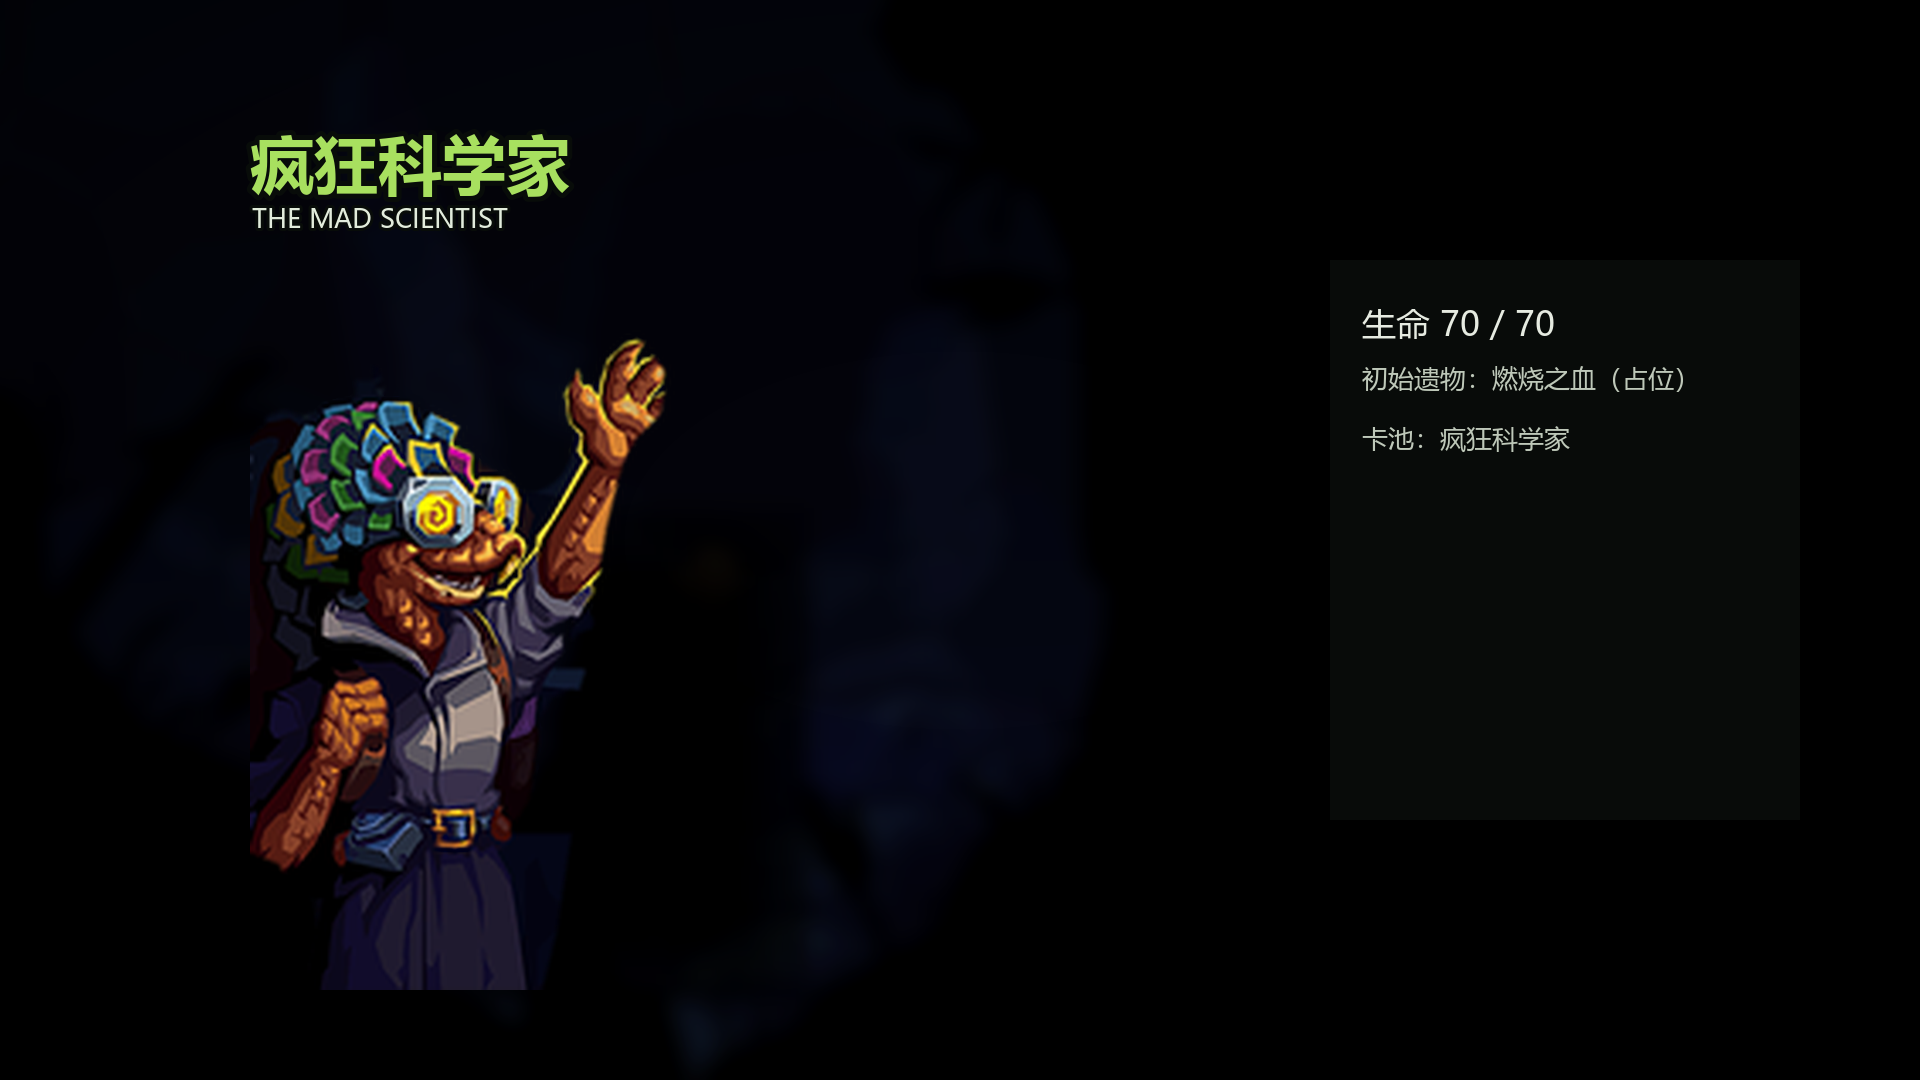
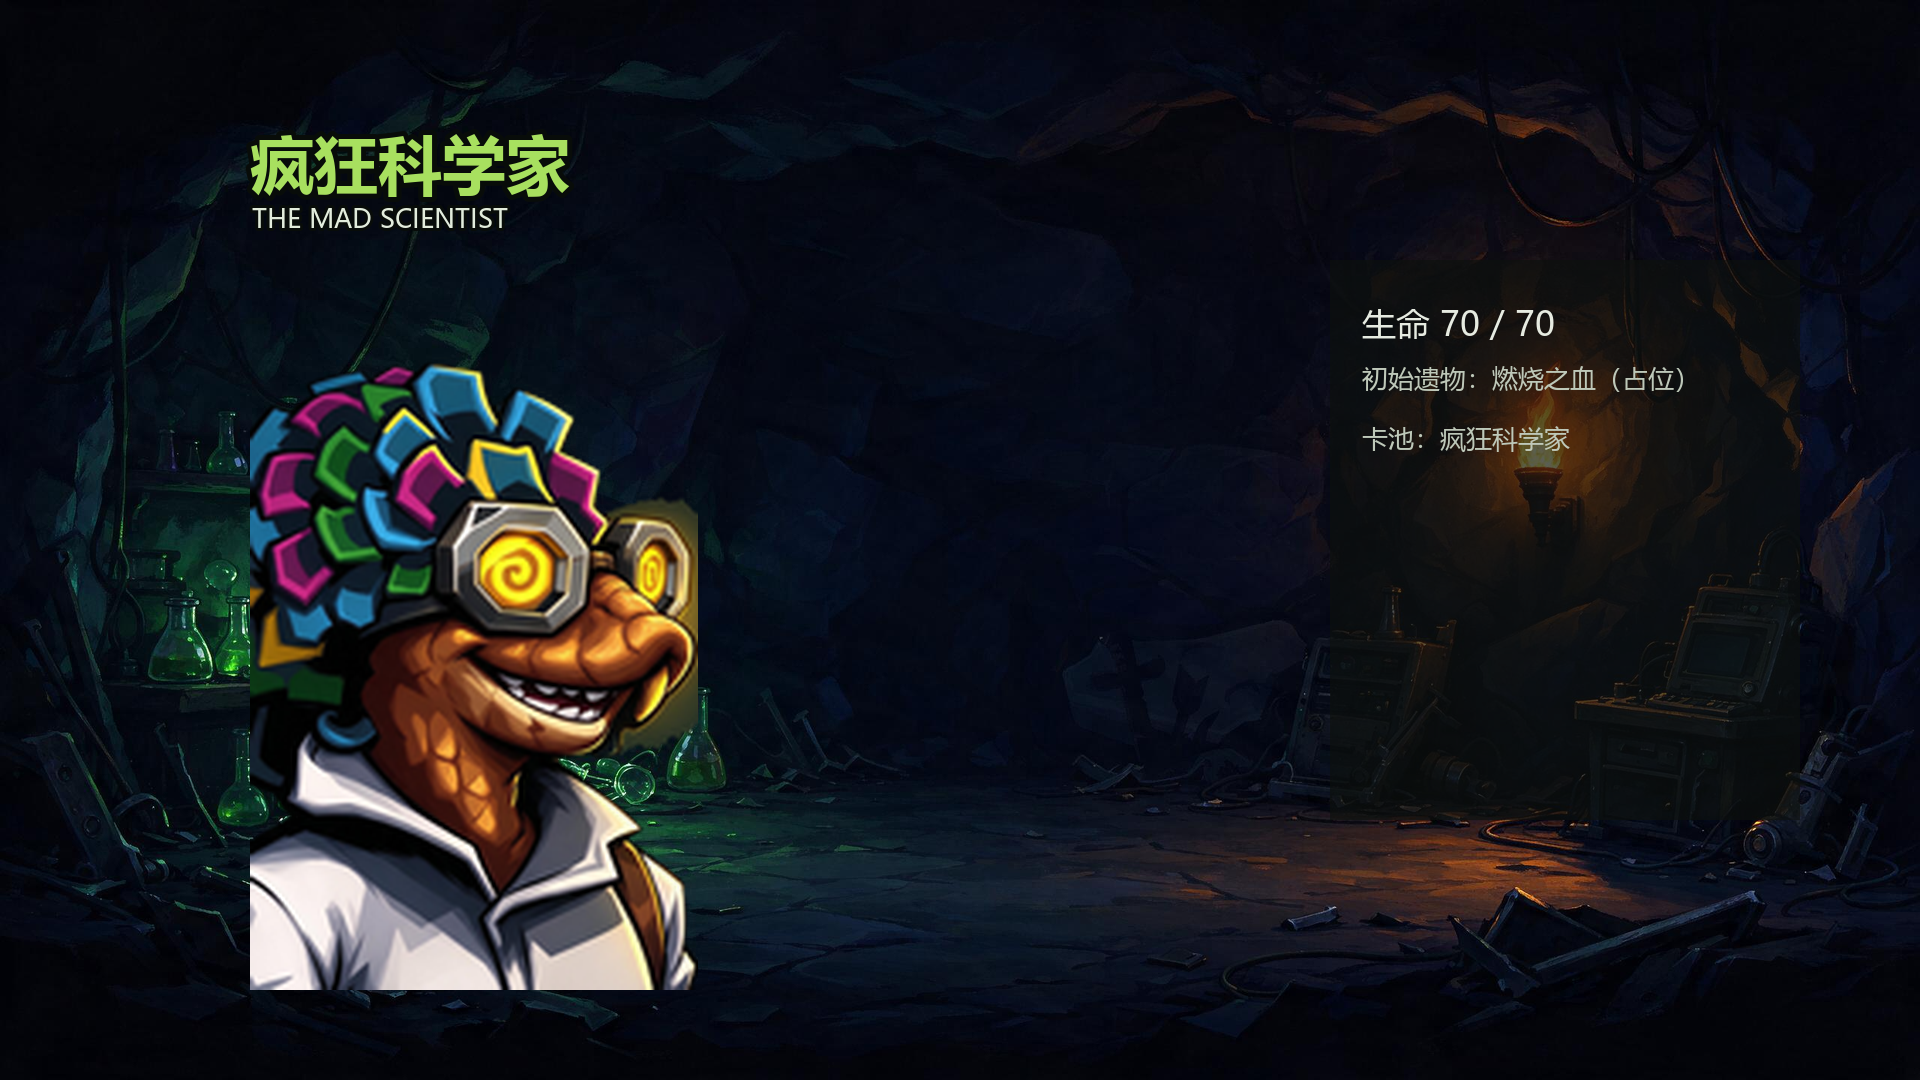
art: switch to AI redrawn assets (Seedream 5.0 flash), fix select background sizing

diff --git a/art/build_ai_assets.py b/art/build_ai_assets.py
@@ -1,0 +1,196 @@
+"""Turn the AI generated art (art/incoming) into the mod's image files.
+
+Inputs
+  art/incoming/base/base_v2.png        full body, flat white background
+  art/incoming/assets/portrait.png     bust
+  art/incoming/assets/icon.png         head
+  art/incoming/assets/select_bg.png    cave laboratory background
+  art/incoming/assets/design.png       character design sheet (docs only)
+
+Outputs (MadScientist/images/...)
+  character/combat.png                 700 px tall, feet on the bottom edge
+  charui/char_select_mad_scientist.png 132x195 (+ _locked silhouette)
+  charui/character_icon_*.png          88x88 (+ white outline version)
+  charui/map_marker_mad_scientist.png  49x64
+  events/select_bg.png                 1920x1080
+
+Run: python art/build_ai_assets.py
+"""
+from __future__ import annotations
+
+from pathlib import Path
+
+import numpy as np
+from PIL import Image, ImageDraw, ImageFilter
+
+ROOT = Path(__file__).resolve().parent.parent
+INCOMING = ROOT / "art" / "incoming"
+OUT = ROOT / "MadScientist" / "images"
+DOCS = ROOT / "docs"
+
+
+# --------------------------------------------------------------------------- #
+# white background removal
+# --------------------------------------------------------------------------- #
+def cut_white(im: Image.Image, thresh: int = 22, shadow: bool = True, corners=None) -> Image.Image:
+    """Remove a flat white background, keeping the character's white coat.
+
+    Uses a flood fill from the four corners so enclosed white areas (the lab
+    coat) are not touched.  The soft grey ground shadow is removed separately by
+    dropping low-saturation pixels in the bottom part of the image.
+    """
+    rgb = im.convert("RGB")
+    w, h = rgb.size
+    sentinel = (255, 0, 255)
+    probe = rgb.copy()
+    seeds = corners or ((0, 0), (w - 1, 0), (0, h - 1), (w - 1, h - 1))
+    for corner in seeds:
+        if probe.getpixel(corner) != sentinel:
+            ImageDraw.floodfill(probe, corner, sentinel, thresh=thresh)
+
+    arr = np.asarray(probe)
+    bg = (arr[:, :, 0] == 255) & (arr[:, :, 1] == 0) & (arr[:, :, 2] == 255)
+    alpha = (~bg).astype(np.float32)
+
+    if shadow:
+        a = np.asarray(rgb).astype(np.float32) / 255.0
+        mx = a.max(2)
+        mn = a.min(2)
+        sat = np.where(mx > 0, (mx - mn) / np.maximum(mx, 1e-6), 0)
+        yy = np.arange(h)[:, None]
+        bottom = yy > h * 0.72
+        shadow_mask = bottom & (sat < 0.13) & (mx > 0.55)
+        alpha[shadow_mask] = 0.0
+
+    alpha_img = Image.fromarray((alpha * 255).astype(np.uint8)).filter(ImageFilter.GaussianBlur(0.6))
+    out = rgb.convert("RGBA")
+    out.putalpha(alpha_img)
+    return out
+
+
+def cut_dark(im: Image.Image, thresh: int = 45) -> Image.Image:
+    """Key out a flat dark background (used for the portrait with the teal backdrop)."""
+    rgb = im.convert("RGB")
+    w, h = rgb.size
+    sentinel = (255, 0, 255)
+    probe = rgb.copy()
+    for corner in ((0, 0), (w - 1, 0), (0, h - 1), (w - 1, h - 1)):
+        ImageDraw.floodfill(probe, corner, sentinel, thresh=thresh)
+    arr = np.asarray(probe)
+    bg = (arr[:, :, 0] == 255) & (arr[:, :, 1] == 0) & (arr[:, :, 2] == 255)
+    alpha = Image.fromarray(((~bg) * 255).astype(np.uint8)).filter(ImageFilter.GaussianBlur(0.8))
+    out = rgb.convert("RGBA")
+    out.putalpha(alpha)
+
+    # eat the dark glow fringe that the flood fill leaves around the head
+    arr = np.asarray(out).astype(np.int16).copy()
+    corners = [np.asarray(rgb.getpixel((0, 0))), np.asarray(rgb.getpixel((w - 1, 0))),
+               np.asarray(rgb.getpixel((0, h - 1))), np.asarray(rgb.getpixel((w - 1, h - 1)))]
+    bgc = np.median(np.stack(corners), axis=0)
+    dist = np.sqrt(((arr[:, :, :3] - bgc) ** 2).sum(2))
+    a = arr[:, :, 3]
+    for _ in range(8):
+        trans = a < 20
+        neigh = np.zeros_like(trans)
+        neigh[1:, :] |= trans[:-1, :]
+        neigh[:-1, :] |= trans[1:, :]
+        neigh[:, 1:] |= trans[:, :-1]
+        neigh[:, :-1] |= trans[:, 1:]
+        kill = (a > 0) & neigh & (dist < 85)
+        if not kill.any():
+            break
+        a[kill] = 0
+    arr[:, :, 3] = a
+    return Image.fromarray(arr.astype(np.uint8), "RGBA")
+
+
+def bbox(im: Image.Image, thresh: int = 8) -> tuple[int, int, int, int]:
+    a = np.asarray(im.getchannel("A"))
+    ys, xs = np.where(a > thresh)
+    return int(xs.min()), int(ys.min()), int(xs.max()) + 1, int(ys.max()) + 1
+
+
+def resize_rgba(im: Image.Image, size: tuple[int, int]) -> Image.Image:
+    a = im.getchannel("A")
+    rgb = im.convert("RGB")
+    black = Image.new("RGB", im.size, (0, 0, 0))
+    pm = Image.composite(rgb, black, a).resize(size, Image.LANCZOS)
+    a2 = a.resize(size, Image.LANCZOS)
+    arr = np.asarray(pm).astype(np.float32) / np.maximum(np.asarray(a2).astype(np.float32) / 255.0, 1e-3)[..., None]
+    arr[np.asarray(a2) < 3] = 0
+    return Image.merge("RGBA", (*Image.fromarray(np.clip(arr, 0, 255).astype(np.uint8)).split(), a2))
+
+
+def silhouette(im: Image.Image, size: tuple[int, int], color=(8, 8, 10)) -> Image.Image:
+    a = im.getchannel("A").resize(size, Image.LANCZOS)
+    layer = Image.new("RGBA", size, (*color, 0))
+    layer.putalpha(a)
+    return layer
+
+
+# --------------------------------------------------------------------------- #
+# main
+# --------------------------------------------------------------------------- #
+def main() -> None:
+    (OUT / "character").mkdir(parents=True, exist_ok=True)
+    (OUT / "charui").mkdir(parents=True, exist_ok=True)
+    (OUT / "events").mkdir(parents=True, exist_ok=True)
+
+    # ---- full body ----
+    body_src = Image.open(INCOMING / "base" / "base_v2.png")
+    body = cut_white(body_src, thresh=24)
+    x0, y0, x1, y1 = bbox(body)
+    body = body.crop((x0, y0, x1, y1))
+    h = 700
+    body = resize_rgba(body, (round(body.width * h / body.height), h))
+    body.save(OUT / "character" / "combat.png")
+    print("combat", body.size)
+
+    # ---- portrait: crop a 2:3 bust around the head ----
+    portrait_src = cut_dark(Image.open(INCOMING / "assets" / "portrait.png"), thresh=46)
+    pw, ph = portrait_src.size
+    ch = int(ph * 0.94)
+    cw = int(ch * 132 / 195)
+    x0 = int((pw - cw) * 0.62)
+    y0 = int(ph * 0.02)
+    portrait = portrait_src.crop((x0, y0, x0 + cw, y0 + ch))
+    p = resize_rgba(portrait, (132, 195))
+    p.save(OUT / "charui" / "char_select_mad_scientist.png")
+    silhouette(p, (132, 195)).save(OUT / "charui" / "char_select_mad_scientist_locked.png")
+    print("portrait", p.size)
+
+    # ---- icon ----
+    icon_src = cut_white(Image.open(INCOMING / "assets" / "icon.png"), thresh=24, corners=[(0, 0), (1023, 0)])
+    iw, ih = icon_src.size
+    side = int(min(iw, ih) * 0.94)
+    icon = icon_src.crop(((iw - side) // 2, (ih - side) // 2,
+                          (iw - side) // 2 + side, (ih - side) // 2 + side))
+    icon88 = resize_rgba(icon, (88, 88))
+    icon88.save(OUT / "charui" / "character_icon_mad_scientist.png")
+    white = Image.new("RGBA", (88, 88), (255, 255, 255, 0))
+    white.putalpha(icon88.getchannel("A"))
+    white.save(OUT / "charui" / "character_icon_mad_scientist_outline.png")
+    print("icon", icon88.size)
+
+    # ---- map marker ----
+    resize_rgba(body, (49, 64)).save(OUT / "charui" / "map_marker_mad_scientist.png")
+
+    # ---- select background ----
+    bg = Image.open(INCOMING / "assets" / "select_bg.png").convert("RGB")
+    bw, bh = bg.size
+    target = 16 / 9
+    if bw / bh > target:
+        nw = int(bh * target)
+        bg = bg.crop(((bw - nw) // 2, 0, (bw - nw) // 2 + nw, bh))
+    else:
+        nh = int(bw / target)
+        bg = bg.crop((0, (bh - nh) // 2, bw, (bh - nh) // 2 + nh))
+    bg.resize((1920, 1080), Image.LANCZOS).save(OUT / "events" / "select_bg.png")
+
+    # ---- design sheet for the docs ----
+    Image.open(INCOMING / "assets" / "design.png").save(DOCS / "design_sheet.png")
+    print("done")
+
+
+if __name__ == "__main__":
+    main()

diff --git a/MadScientistCode/Diagnostics.cs b/MadScientistCode/Diagnostics.cs
@@ -21,7 +21,7 @@ internal static class MadScientistDiagnostics
         "res://MadScientist/images/charui/char_select_mad_scientist.png",
         "res://MadScientist/images/charui/character_icon_mad_scientist.png",
         "res://MadScientist/images/charui/map_marker_mad_scientist.png",
-        "res://MadScientist/images/events/tinker_time_bg.png",
+        "res://MadScientist/images/events/select_bg.png",
     ];
 
     [HarmonyPostfix]

diff --git a/art/preview_sheet.py b/art/preview_sheet.py
@@ -23,7 +23,7 @@ GREEN = (168, 224, 95)
 
 
 def select_mockup() -> None:
-    bg = Image.open(IMG / "events" / "tinker_time_bg.png").convert("RGB").resize((1920, 1080))
+    bg = Image.open(IMG / "events" / "select_bg.png").convert("RGB").resize((1920, 1080))
     canvas = bg.convert("RGBA")
 
     portrait = Image.open(IMG / "charui" / "char_select_mad_scientist.png").convert("RGBA")
